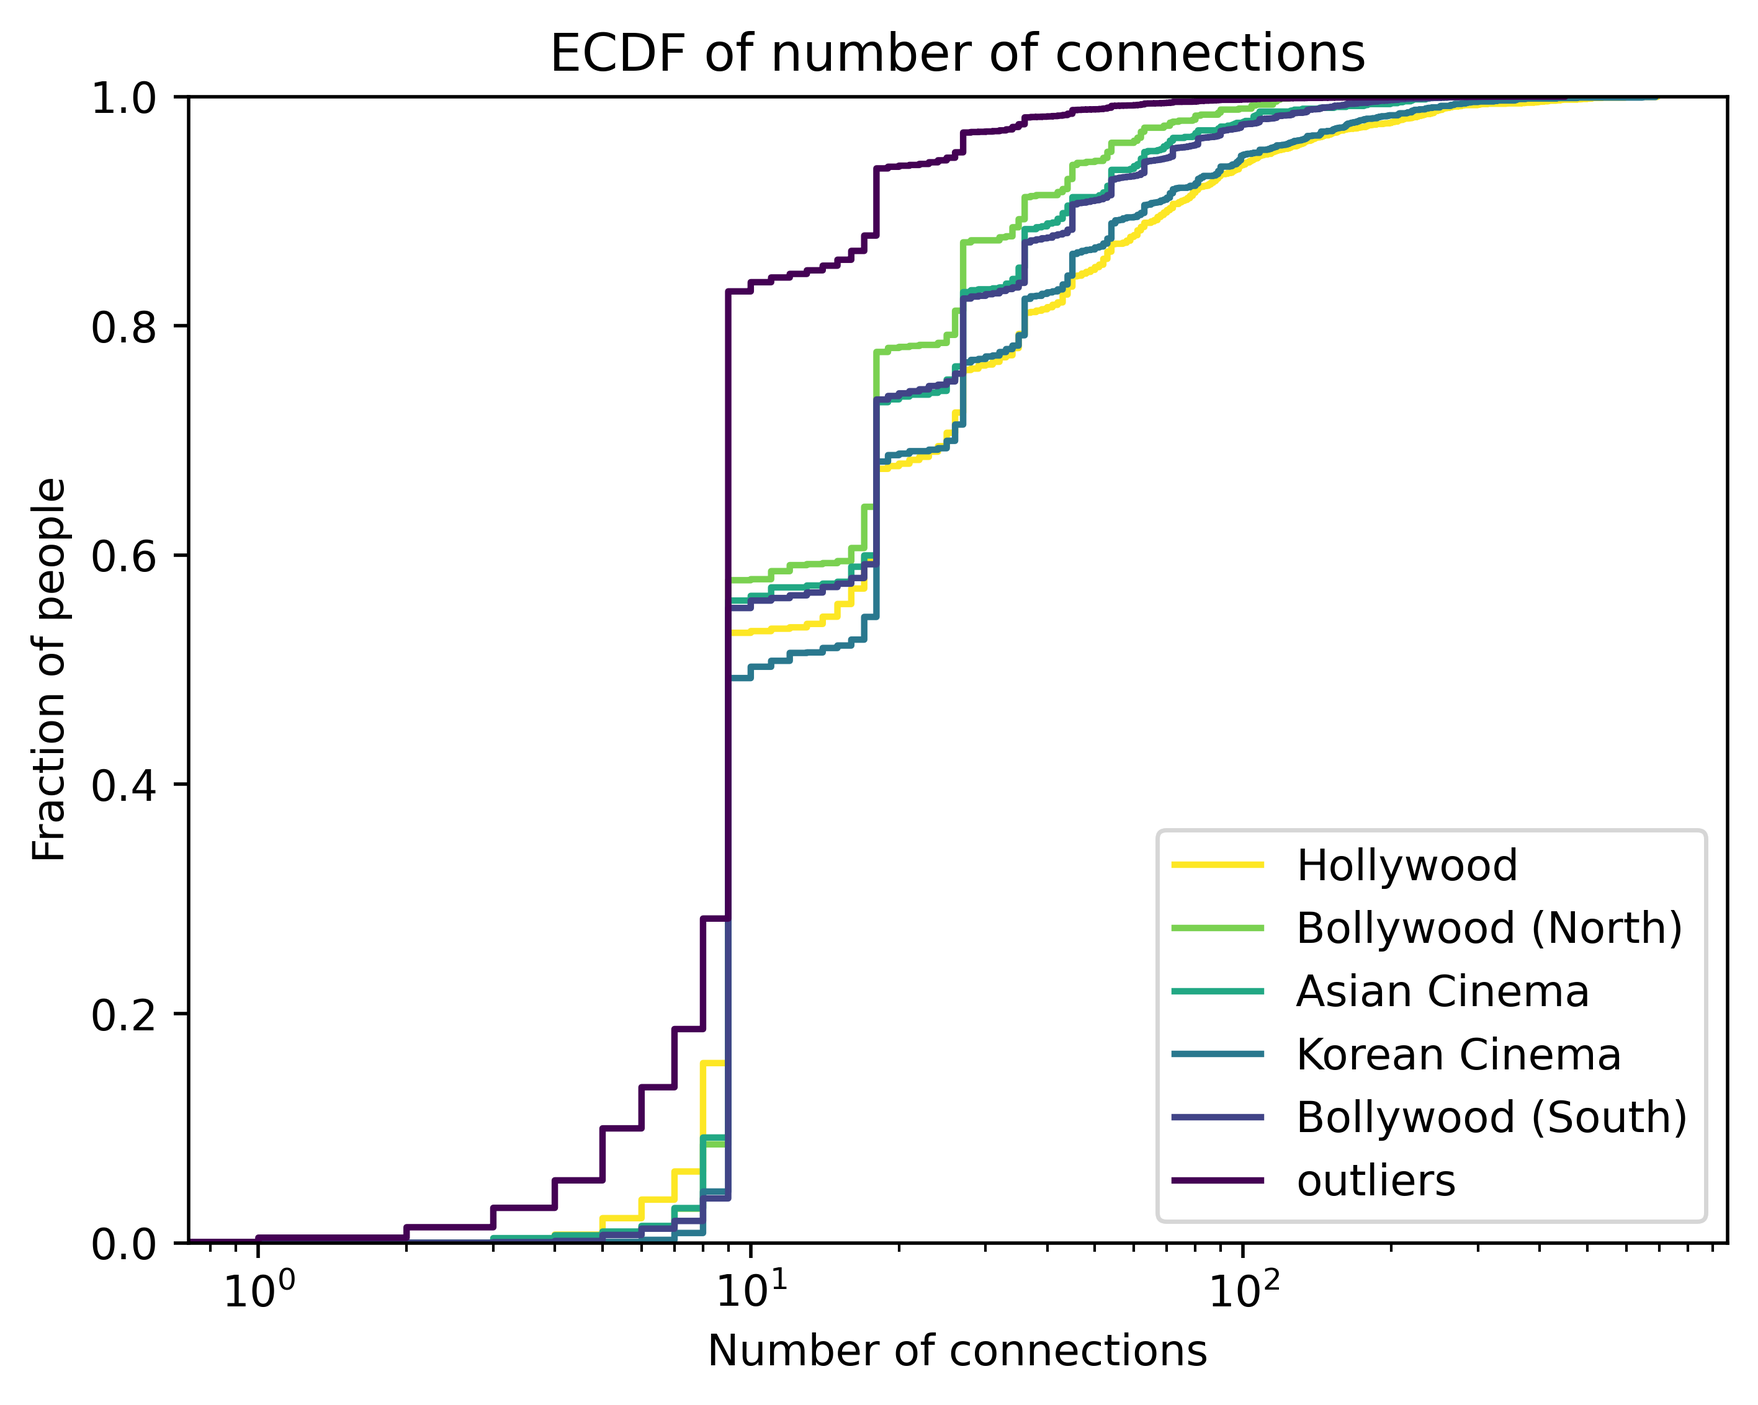
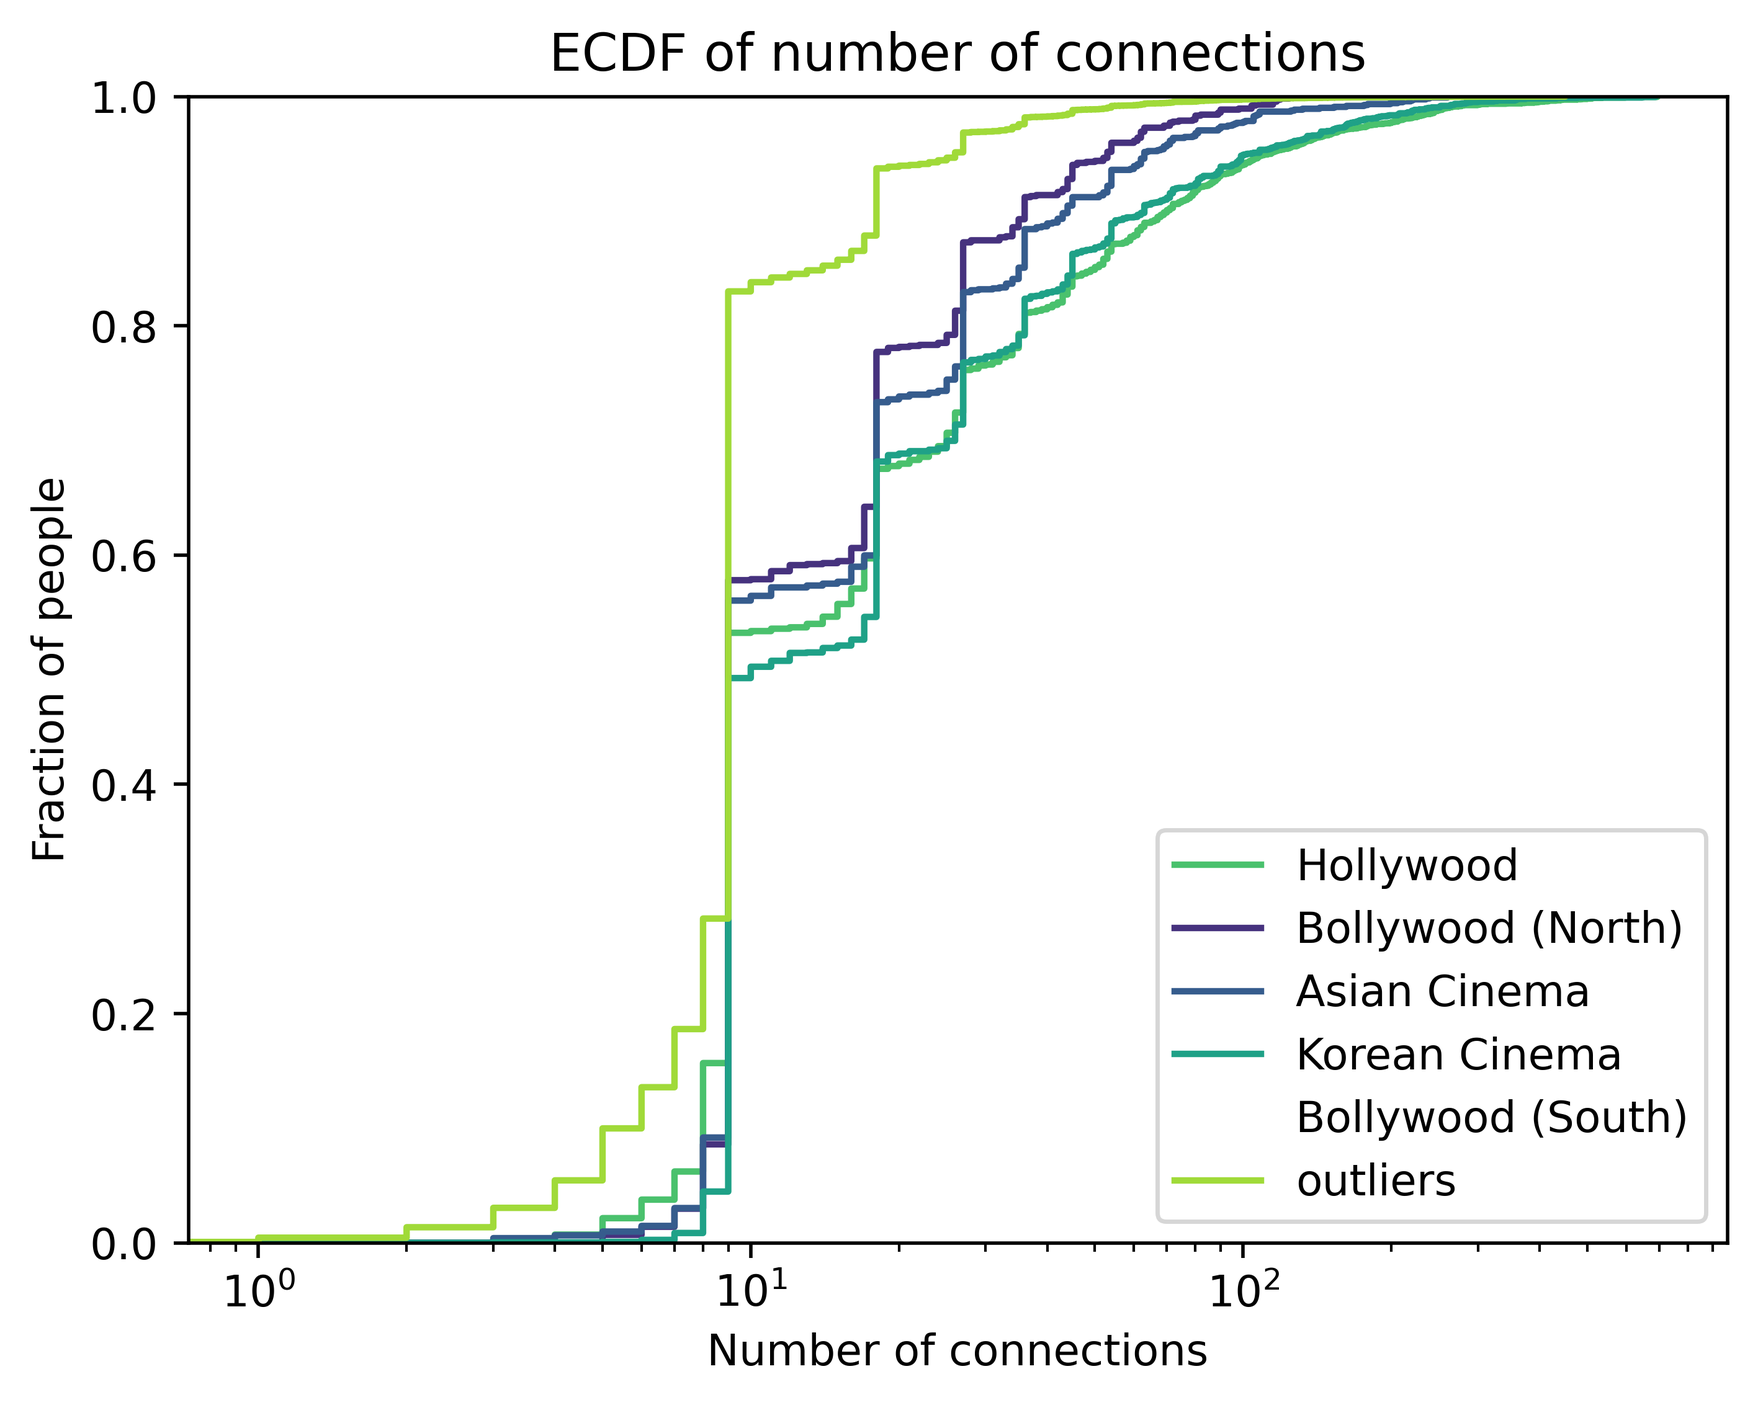
Complete datastory

diff --git a/index.md b/index.md
@@ -3,17 +3,26 @@ layout: default
 ---
 
 ![Famous Oscars 2014 Picture](https://img.theepochtimes.com/assets/uploads/2014/03/AP788938341654.jpg)
+_The famous selfie shared by Ellen DeGeneres with actors, front row from left, Jared Leto, Jennifer Lawrence, Meryl Streep, Ellen DeGeneres, Bradley Cooper, Peter Nyongo Jr. and, second row, from left, Channing Tatum, Julia Roberts, Kevin Spacey, Brad Pitt, Lupita Nyongo and Angelina Jolie during the Oscars 2014 (AP Photo/Ellen DeGeneres) (AP)_
 
-###### The famous selfie shared by Ellen DeGeneres with actors, front row from left, Jared Leto, Jennifer Lawrence, Meryl Streep, Ellen DeGeneres, Bradley Cooper, Peter Nyongo Jr. and, second row, from left, Channing Tatum, Julia Roberts, Kevin Spacey, Brad Pitt, Lupita Nyongo and Angelina Jolie during the Oscars 2014 (AP Photo/Ellen DeGeneres) (AP)
+---
 
-_"It's Not What You Know. It's Who You Know"_
+**"It's Not What You Know. It's Who You Know"**
 
 Everyone has heard this quote or experienced it first hand. It is no secret that social network has a large impact on career and personal life.
 
-Even going further, we could argue that this quote is created by someone from the movie industry. In this project we analyzed the
-social network of people who work in cinema. We used the [CMU Movie Summary Corpus](https://www.cs.cmu.edu/~ark/personas/) and [IMDb](https://www.imdb.com/interfaces/) datasets to do our analysis.
+Maybe the first industry that comes to mind is the movie industry. In this project we analyzed the social network of people who work in the movie industry. We used the [CMU Movie Summary Corpus](https://www.cs.cmu.edu/~ark/personas/) and [IMDb](https://www.imdb.com/interfaces/) datasets to do our analysis.
 
-We analyzed the large social network by dividing into clusters and then we zoomed into the significant clusters to further investigate the people who know each other, why these clusters exist and who are the key people that bridge different clusters. For each cluster, we looked at their common attributes and tied them into real-life clusters such as Bollywood, Hollywood etc.
+We analyzed the large social network by dividing into clusters and then we zoomed into the significant clusters to further investigate why these clusters exist and who are the key people that bridge different clusters. For each cluster, we looked at their common attributes and tied them into real movie industries.
+
+**Our research questions,**
+
+- Are there clusterings between the people in the film industry?
+  - What are common attributes of people in the same cluster?
+  - Are there people without a cluster? What makes them special?
+- As representation and diversity have more space in conversations today, do we observe the same awareness in the film industry?
+  - Do women are employed equally with men?
+  - How diverse is each cluster?
 
 # The Data We Worked With
 
@@ -21,7 +30,8 @@ We merged IMDb dataset into our given dataset to have more entries and features 
 
 ![Initial dataframe](/images/initial_movie_count.png)
 
-As seen from the plot, 1996-2011 (both inclusive) period has the highest number of movies. One may ask why didn't we just count the number of rows and select a period? The answer will be clear after understaind what are we trying to visualize with the dataset.
+As seen from the plot, 1996-2011 (both inclusive) period has the highest number of movies. We have 14800 movies, 74973 people with 38 different professions.
+One may ask why didn't we just count the number of rows and select a period? The answer will be clear after understanding what are we trying to visualize with the dataset.
 
 ## How to visualize?
 
@@ -31,19 +41,27 @@ Now, lets build our graph to visualize what we talked about.
 
 We turned our attention to the Fruchterman-Reingold force-directed algorithm, which produces beautiful networks. Those graphs emphasis the position of the nodes, assuring as few edge crossings and distance disparities as possible. The algorithm works similarly to interaction between attractive and repelling forces. The edges between nodes are the springs which pull closer, and the nodes themselves are the object exercing push.
 
-![Initial network](/images/initial_network.jpg)
+🔎 Use the built-in magnifying glass to take a closer look.
+
+<div class="img-magnifier-container">
+  <img id="network" src="images/19960101-20120101_cropped.jpg" width="1000" height="900" alt="Initial network">
+</div>
 
 # Clustering
 
 We see some natural clusterings occur, so we run a clustering algorithm to understand the reason. We used OPTICS clustering algorithm, which has foundations from DBSCAN but allows rejecting clusters under a certain size. We choose to reject clusters under 400 people to focus on more generalizable clusters.
 
-For simplify the graph, we only show the names of people who were in more than 24 movies.
+To simplify the graph, we only show the names of people who were in more than 24 movies.
 
-![Cluster Optics](/images/cluster_optics.jpg)
+🔎 Use the built-in magnifying glass to take a closer look.
+
+<div class="img-magnifier-container">
+  <img id="optics" src="images/cluster_optics.jpg" width="1000" height="900" alt="OPTICS network">
+</div>
 
 Looking at the cluster graph, we observe 5 large clusters (differentiated by color) and some outliers. We are curious whether these clusters represent or resemble real clusters such as Hollywood, Bollywood and so on. The name of these movie industries come from where they are located. For example Hollywood is a neighbourhood in Los Angeles, California USA and Bollywood gets its name from its birthplace, Bombay (now Mumbai), India. Since movies are generally catered towards the local audience, the native languages are used. This also means that majority the actors, directors and writers are from that nationality or native speakers of the language.
 
-From this analogy, we made an assumption that ethnicity data will reveal us which movie industry they resemble. The ethnicity information comes from IMDb dataset, thus we have NaN values for the people who are in the CMU dataset but not in the IMDb dataset. But we can assume that the distribution of the people with ethnicities (although a small percentage) will be inline with the distribution if CMU dataset had the feature too.
+From this analogy, we made an assumption that ethnicity data will reveal us which movie industry they resemble. The ethnicity information comes from CMU dataset, and available only for actors. But we can assume that the distribution of the people with ethnicities (although a small percentage) will be inline with the distribution if CMU dataset had the feature too.
 
 ## Diving into clusters
 
@@ -51,30 +69,60 @@ Let's plot the etnicity distribution of each cluster. We only considered non NaN
 
 ![Ethnicity in Clusters](/images/ethnicity_clusters.png)
 
-Cluster 1: We can see that Americans with different descents are observed the most with ~34%. Thus we can say that this is the cluster that represents Hollywood.
+**Cluster 1:** We can see that Americans with different descents are observed the most with ~34%. Thus we can say that this is the cluster that represents Hollywood.
 
-Cluster 2: This cluster represents Bollywood with 60%. Punjabis who live in eastern Pakistan and northwestern India are also considered very active in Bollywood cinema.
+**Cluster 2:** This cluster represents Bollywood with 60% Indian population. Punjabis who live in eastern Pakistan and northwestern India are also considered very active in Bollywood cinema. We will call this cluster Bollywood (North).
 
-Cluster 3: This cluster is rather interesting. It has the equal percentage of Japanese and Chinese Americans. Then we have 2 more ethnicities with Asian descent. So we can call this "Asian Cinema".
+**Cluster 3:** This cluster is rather interesting. It has an equal percentage of Japanese and Chinese Americans. Then we have 2 more ethnicities with Asian descent. So we can call this Asian Cinema.
 
-Cluster 4: This one is Korean Cinema with more than 80% Koreans in it.
+**Cluster 4:** This one is Korean Cinema with more than 80% Koreans in it.
 
-Cluster 5: We also see Indians as a majority ethnicity similarly to Cluster 2. The difference is the second biggest ethnicity, Tamils are from India (Southern regions) and Sri Lanka. So this is also Bollywood.
+**Cluster 5:** We also see Indians as a majority ethnicity similarly to Cluster 2. The difference is the second biggest ethnicity, Tamils are from India (Southern regions) and Sri Lanka. So this is also Bollywood, to distinguish we will call this Bollywood (South).
 
-Since we named the clusters, lets look further into the features of the clusters.
+Let's plot the ethnicity plot again with new cluster names, we will use these names for each cluster from now on.
+
+![Ethnicity in Clusters](/images/ethnicity_clusters_named.png)
+
+Since we named the clusters, we can look further into the some interesting statistics.
+
+## Popular Genres
+
+Depending on many factors such as culture and history, each audience enjoy different genres of movies. We decided to plot the genre distribution of IMDb dataset because CMU genres are more specific but less consistent due to the crowdsourcing nature of data. And IMDb genres are less (19 of them) but more consistent.
+
+![Genres in Clusters](/images/genre_clusters.png)
+
+Drama is clearly a favorite of all clusters. It is by far the most popular genre in Bollywood, where in Asian cinema Action movies are as popular as drama movies. Comedy comes second in Hollywood. In Korean cinema we see a more equal distribution between genres.
+
+> Globally, drama movies made around $42 billion in the 90s, and $75 billion in the 2000s. Adventure and action movies made around $26 billion and $29 billion, respectively, during the 90s, and by the end of 2010. (Source: [Box Office Mojo](https://www.boxofficemojo.com/))
+
+## Profession
 
 Our dataset has people with different professions such as actor, actresses, editors and so on. Let's take a look.
 
-![Profession Distribution](images/profession_cluster.png)
+![Profession Distribution](images/clusters_professions_distribution.png)
 
 Our professions data comes from IMDb, and is generated from the credits.
 If we focus on the professions that have a higher percentage, they being actors, actresses, producers and directors, we see that all clusters have similar distribution with 5-10% difference.
 
 Interestingly, we have much more actors than actresses with a large difference. According to New York Film Academy, for one actress there are 2.25 actors. Does this inequality happen also behind the scenes? Lets look at the general gender percentage.
 
-![Gender Percentage](images/gender_cluster.png)
+## Gender
 
-Unfortunately, we see a deeper cut between male and female employment. Korean Cinema seems to be the most inclusive one with only a 10% difference. Whereas Hollwood has almost 30% difference, meaning there is one female per male. And this is very recent times!
+![Gender Percentage](images/gender_cluster_1.png)
+
+Unfortunately, we see a deeper cut between male and female employment. Korean Cinema seems to be the most inclusive one with only a 10% difference. Whereas Hollwood has almost 30% difference, meaning there is one female per two male. And this is very recent times! 75.25% of people in our dataset have a gender attribute, so these results truly reflect the real distribution.
+
+> Globally, the ratio of men working in movie industry to women is 5:1. (Source: [New York Film Academy](https://www.nyfa.edu/film-school-blog/gender-inequality-in-film/))
+
+## Age
+
+In movies we often see characters from different ages, this means an actor/actress can do their profession for a long time. But with any performative job, they have their "golden years". We are curious to see what these golden years mean for each cluster. We calculated the age of actors and actresses by taking the difference of the year the movie is released and their birthday. We only used actors and actresses, since Note that since some people played in multiple movies, they are counted as many times. We removed Bollywood (South) cluster in our analysis, since we only had 2 people who had a valid age value.
+
+![Age](images/cluster_age_actor.png)
+
+Not to our surprise, 21-40 years old actors and actresses are the majority in all clusters. It is followed by 41-60. We could say that ageism is very clearly seen in Hollywood and Bollywood. Korean Cinema has more representation for young(20-) and old(60+) people.
+
+> A recent calculation cited by the Guardian, claimed that in 2014’s 20 highest-grossing films, on average 3 out of 10 actors were women, and only 8% of those actors were between 40 and 59, with a shockingly low 2% over 60. (Source: [Reader's Digest UK](https://www.readersdigest.co.uk/culture/film-tv/ageism-in-film-is-hollywood-finally-acting-its-age))
 
 # Outside the Clusters
 
@@ -107,7 +155,7 @@ Now let's look at the ethnicity distribution of outliers. To compare, we also pl
 
 ![Ethnicity Distribution](images/outliers_ethnicities_distribution.png)
 
-We observe that people with English as their native language are have clusters, but the majority of outliers are English native speakers. It makes sence since there are many movie industries which are located in English speaking countries.
+We observe that native English speakers are well represented in clusters, and they are also represented as outliers are English. It makes sense since there are many movie industries which are located in English speaking countries.
 
 We see some ethnicities located in India and neighbouring countries such as Punjabis, Marathis, Bengali adn Sindhis who are outliers. This could indicate that their native movie industries are not big enough to be standalone. Hence their members often collaborate with people from other movie industry hotspots such as Bollwood.
 
@@ -134,3 +182,111 @@ We define the key people as outliers who have many connections to clusters or ot
     src="images/takashimiike.jpg">
 
 # Conclusion
+
+We found many clusters with various sizes by running OPTICS clustering algorithm, then we only kept the clusters with size larger than 400. When we looked at the common attributes of people in the same cluster, we saw that ethnicity value plays an important role. And we were able to map these clusters to real life clusters. Some clusters had more people and some had less due to the data we had. Mergin IMDb dataset with CMU dataset allowed us to have more rich data. Since CMU dataset was built by volunteers, it had some biases towards the volunteers' preferences, nationality and so on.
+
+When we looked into the clusters, we saw that some clusters had more diverse ethnicities with non-negligable percentages. For example Korean Cinema cluster was predominantly Korean (80%), where as Hollwood had people from various ethnic backgrounds such as Jewish people and Italian Americans. Bollywood clusters also included many ethnic groups, which is not a surprise since India is very rich in terms of ethnicities (74 listed in Wikipedia!).
+
+In terms of genre preferences, drama leads everywhere. In the second place, Asian Cinema and Korean Cinema has action; Hollwood and Bollywood (North and South) has comedy.
+
+When we were analyzing professions, we saw that there are less actresses than actors. Looking closer, we saw the gender gap which was very obvious in all clusters. While Korean Cinema was the "most" inclusive, Hollywood and Bollywood had an overwhelming majority of males. Ageism was also very present in Hollywood, and Korean Cinema has more representation of ages compared to others.
+
+More than half of the people were outliers, so it was worth analyzing them. Some outliers had many connections to the people in clusters, some had more connections to other outliers or not many connections at all (loners in the industry).
+
+# Further Details
+
+Our results could vary depending on the clustering algorithm used, the parameters we set such as cluster size cutoff. For example, Jackie Chan, a famous Chinese actor mostly known by his action movies globally, was placed in the Asian cluster. But he is at the very edge of the cluster (ie. very close to being an outlier).
+
+Our main dataset which was sourced from Freebase had many attribute values missing which led us to make further assumptions, however by using IMDb dataset which is more reliable, our assumptions hold.
+
+<img 
+    style="display: block; 
+           margin-left: auto;
+           margin-right: auto;
+           width: 60%;"
+    src="images/goodbye.gif">
+
+<style>  
+     * {box-sizing: border-box;}
+
+.img-magnifier-container {
+  position: relative;
+}
+
+.img-magnifier-glass {
+  position: absolute;
+  border: 3px solid #000;
+  border-radius: 50%;
+  cursor: none;
+  /*Set the size of the magnifier glass:*/
+  width: 200px;
+  height: 200px;
+}
+</style>
+
+<script>
+function magnify(imgID, zoom) {
+  var img, glass, w, h, bw;
+  img = document.getElementById(imgID);
+
+  /* Create magnifier glass: */
+  glass = document.createElement("DIV");
+  glass.setAttribute("class", "img-magnifier-glass");
+
+  /* Insert magnifier glass: */
+  img.parentElement.insertBefore(glass, img);
+
+  /* Set background properties for the magnifier glass: */
+  glass.style.backgroundImage = "url('" + img.src + "')";
+  glass.style.backgroundRepeat = "no-repeat";
+  glass.style.backgroundSize = (img.width * zoom) + "px " + (img.height * zoom) + "px";
+  bw = 3;
+  w = glass.offsetWidth / 2;
+  h = glass.offsetHeight / 2;
+
+  /* Execute a function when someone moves the magnifier glass over the image: */
+  glass.addEventListener("mousemove", moveMagnifier);
+  img.addEventListener("mousemove", moveMagnifier);
+
+  /*and also for touch screens:*/
+  glass.addEventListener("touchmove", moveMagnifier);
+  img.addEventListener("touchmove", moveMagnifier);
+  function moveMagnifier(e) {
+    var pos, x, y;
+    /* Prevent any other actions that may occur when moving over the image */
+    e.preventDefault();
+    /* Get the cursor's x and y positions: */
+    pos = getCursorPos(e);
+    x = pos.x;
+    y = pos.y;
+    /* Prevent the magnifier glass from being positioned outside the image: */
+    if (x > img.width - (w / zoom)) {x = img.width - (w / zoom);}
+    if (x < w / zoom) {x = w / zoom;}
+    if (y > img.height - (h / zoom)) {y = img.height - (h / zoom);}
+    if (y < h / zoom) {y = h / zoom;}
+    /* Set the position of the magnifier glass: */
+    glass.style.left = (x - w) + "px";
+    glass.style.top = (y - h) + "px";
+    /* Display what the magnifier glass "sees": */
+    glass.style.backgroundPosition = "-" + ((x * zoom) - w + bw) + "px -" + ((y * zoom) - h + bw) + "px";
+  }
+
+  function getCursorPos(e) {
+    var a, x = 0, y = 0;
+    e = e || window.event;
+    /* Get the x and y positions of the image: */
+    a = img.getBoundingClientRect();
+    /* Calculate the cursor's x and y coordinates, relative to the image: */
+    x = e.pageX - a.left;
+    y = e.pageY - a.top;
+    /* Consider any page scrolling: */
+    x = x - window.pageXOffset;
+    y = y - window.pageYOffset;
+    return {x : x, y : y};
+  }
+}
+/* Execute the magnify function: */
+magnify("network", 5);
+magnify("optics", 3);
+/* Specify the id of the image, and the strength of the magnifier glass: */
+</script>
